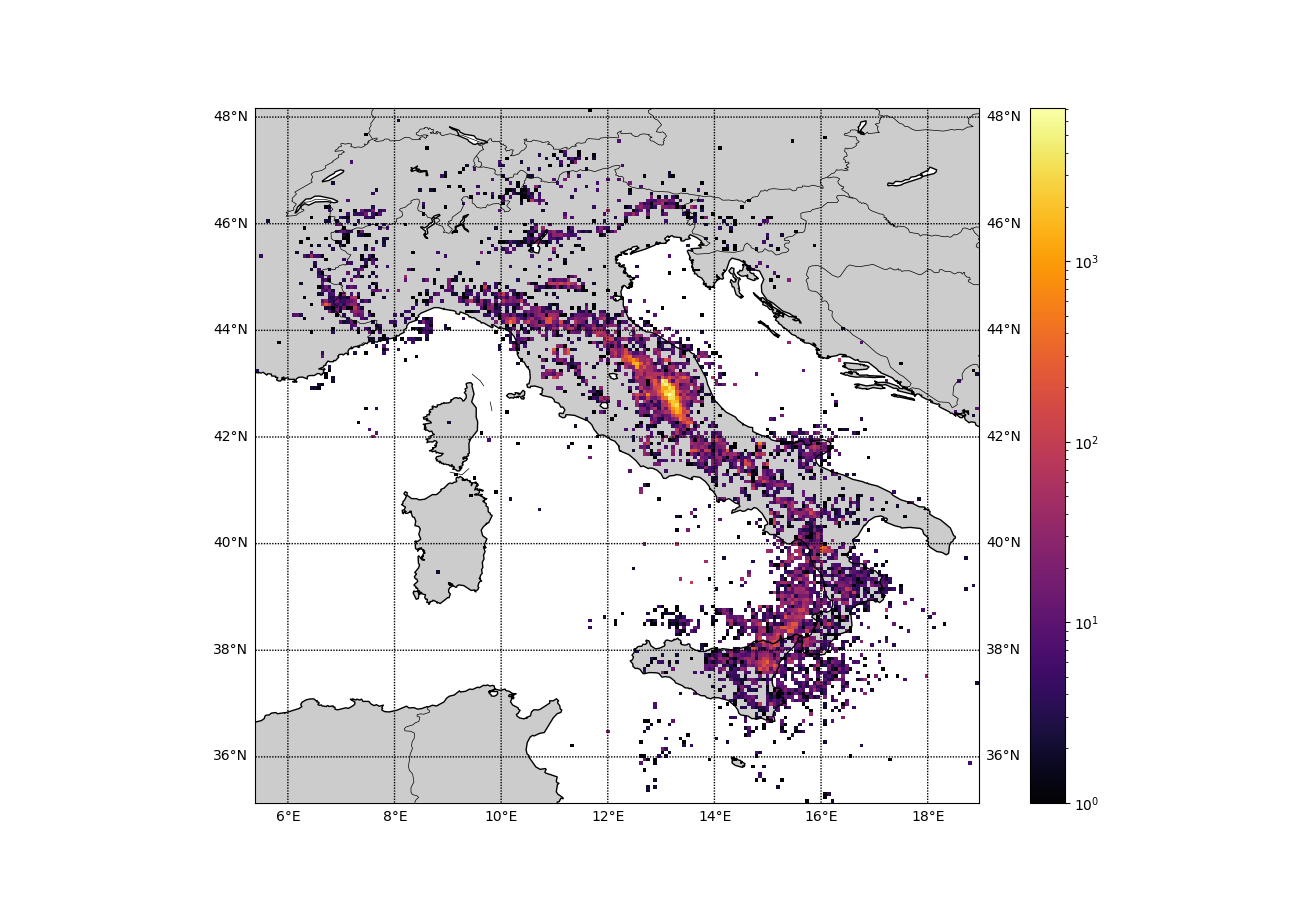
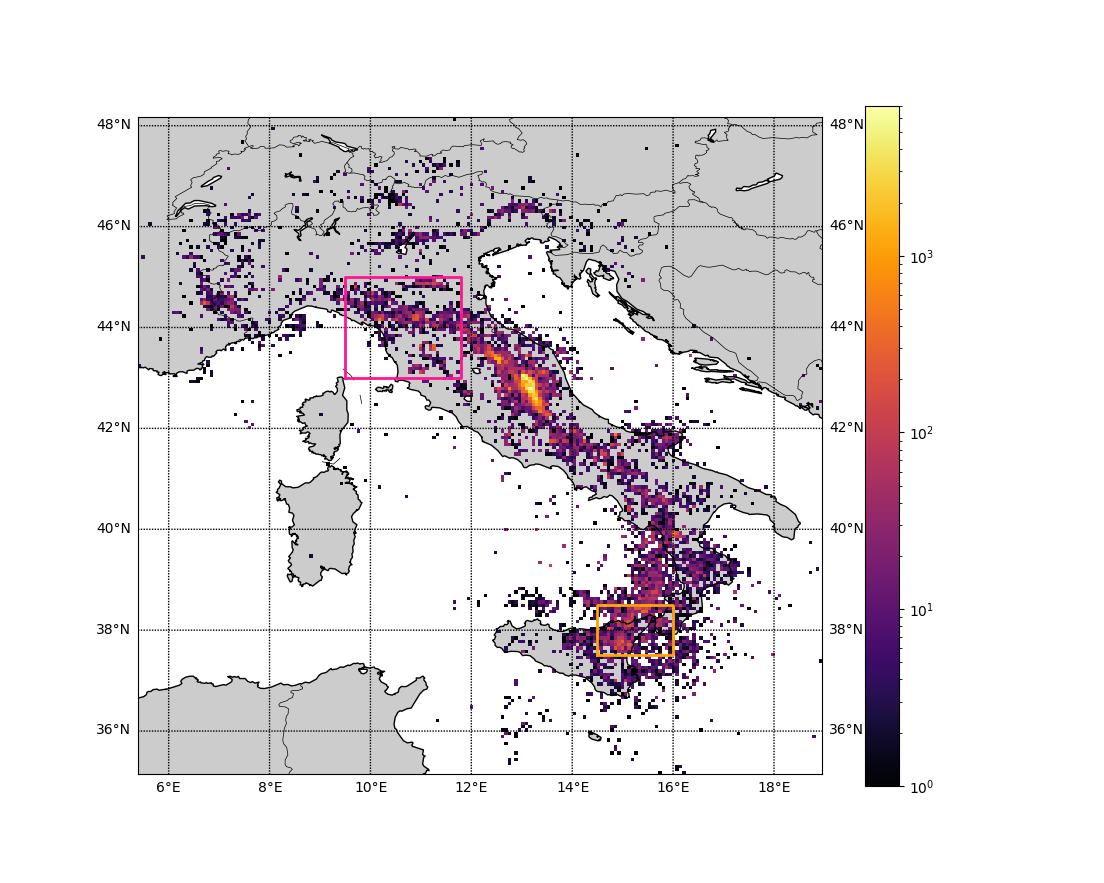
go

Changed region(s): [[0.0924, 0.0917, 0.8315, 0.9173]]

diff --git a/Codici/Drive_sismogramma_linux.py b/Codici/Drive_sismogramma_linux.py
@@ -238,8 +238,16 @@ plt.hist2d(x=Data.metadata['source_longitude_deg'],
 # cb = fig.colorbar(hb, ax=grafico)
 # cb.set_label('counts')
 plt.colorbar()
-# plt.show()
-plt.savefig('/home/silvia/Desktop/Italia_Bella2')
+e_t = [43, 45, 9.5, 11.8]
+e_v = [37.5, 38.5, 14.5, 16]
+
+x_t = [9.5, 9.5, 11.8, 11.8, 9.5]
+y_t = [43, 45, 45, 43, 43]
+x_v, y_v = [14.5, 14.5, 16, 16, 14.5], [37.5, 38.5, 38.5, 37.5, 37.5]
+plt.plot(x_t, y_t, zorder=2, linewidth=2, color="deeppink")
+plt.plot(x_v, y_v, zorder=2, linewidth=2, color="orange")
+plt.show()
+# plt.savefig('/home/silvia/Desktop/Italia_Bella2')
 """
 
 # TODO seleziona tracce (devi avere un modo per ricavare indici)
@@ -383,7 +391,7 @@ print(max_ac)
 """
 
 # TODO istogrammi vari
-# """
+"""
 hdf5in = '/home/silvia/Desktop/Instance_Data/Quattro_4s_Buone/data_Velocimeter_Buone_4s.hdf5'
 csvin = '/home/silvia/Desktop/Instance_Data/Quattro_4s_Buone/metadata_Velocimeter_Buone_4s.csv'
 Data = ClasseDataset()
@@ -396,4 +404,4 @@ plt.yscale('log')
 ax.hist(magnitudini, edgecolor="black", bins=13)
 plt.show()
 # plt.savefig('/home/silvia/Desktop/Magnitudo')
-# """
+"""

diff --git a/Codici/Tutorial_plot.py b/Codici/Tutorial_plot.py
@@ -16,7 +16,7 @@ min_lon = np.min(Data.metadata['source_longitude_deg'])
 max_lon = np.max(Data.metadata['source_longitude_deg'])
 
 # TODO basemap
-# """
+"""
 fig, grafico = plt.subplots()
 m = Basemap(llcrnrlon=min_lon,  urcrnrlon=max_lon, llcrnrlat=min_lat, urcrnrlat=max_lat, resolution='i')
 m.drawcoastlines()
@@ -46,7 +46,7 @@ plt.hist2d(x=Data.metadata['source_longitude_deg'],
 plt.colorbar()
 plt.show()
 # plt.savefig('/home/silvia/Desktop/Italia_Bella')
-# """
+"""
 
 # TODO Geopandas
 """
@@ -73,5 +73,11 @@ print(min_lon, max_lon)
 print(min_lat, max_lat)
 # plt.colorbar()
 # plt.savefig('/home/silvia/Desktop/qualcosa.png')
+plt.show()
+"""
+
+# TODO segmento e quadrato
+"""
+plt.plot([1,1,2,2,1],[1,2,2,1,1])
 plt.show()
 """
